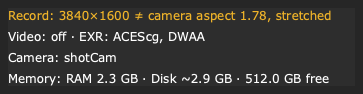
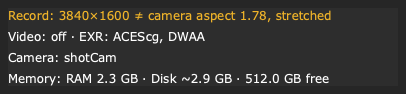
WRITE is the accent (primary) button like Save; the details toggle reads 'Details ▾' instead of a bare arrow

diff --git a/main.py b/main.py
@@ -69,7 +69,7 @@ from .core.viewport import HouViewport
 from .gui import animation, widgets
 from .gui.frameless import RoundedWindow, TitleBar
 from .gui.qt import *  # noqa: F403
-from .gui.theme import COLORS as COLORS_PALLETE, STATES
+from .gui.theme import COLORS as COLORS_PALLETE, PRIMARY_STYLE, STATES
 from .gui.resources import ICONS_FOLDER, Icons as _Icons
 from .gui.settings_dialog import SettingsDialog, execDialog
 
@@ -180,9 +180,10 @@ class DinoWriter(RoundedWindow, QWidget):
         
         self.dino_paint = dino_paint
         # Arrow: the details (record/video/camera/memory) slide out below the name; remembered, closed by default
-        self.info_toggle = widgets.PushButton("", radius=11)
-        self.info_toggle.setFixedSize(QSize(22, 22))
-        self.info_toggle.setIconSize(QSize(12, 12))
+        # A word, not only an arrow: easy to miss otherwise
+        self.info_toggle = widgets.PushButton("Details ▾", radius=6)
+        self.info_toggle.setFixedHeight(22)
+        self.info_toggle.setFixedWidth(self.info_toggle.fontMetrics().horizontalAdvance("Details ▾") + 18)
         self.info_toggle.setCursor(Qt.PointingHandCursor)
         self.info_toggle.clicked.connect(lambda: self.setInfoExpanded(not self.info_expanded))
         sequence_layout = widgets.HLayout([self.seqname,dino_paint,self.info_toggle],align=None)
@@ -316,6 +317,7 @@ class DinoWriter(RoundedWindow, QWidget):
         self.writebutton.setIcon(Icons.get("dino_cam.svg"))
         self.writebutton.setIconSize(QSize(35,35))
         self.writebutton.setLayoutDirection(Qt.RightToLeft)
+        self.writebutton.setStyleSheet(widgets.styles.get("mainbutton") + PRIMARY_STYLE)  # the main action
 
         # LAYOUTS
         TITLE_LAYOUT = QVBoxLayout() 
@@ -450,11 +452,8 @@ class DinoWriter(RoundedWindow, QWidget):
         self._updateInfoToggle()
 
     def _updateInfoToggle(self):
-        icon = Icons.get("angle-down2.svg", type="Path")
-        pixmap = QPixmap(icon).transformed(QTransform().rotate(180 if self.info_expanded else 0),
-                                           Qt.SmoothTransformation)
-        self.info_toggle.setIcon(QIcon(pixmap))
-        style = widgets.styles.get("mainbutton")
+        self.info_toggle.setText("Details ▴" if self.info_expanded else "Details ▾")
+        style = widgets.styles.get("mainbutton") + "QPushButton { padding: 0px 4px; }"
         tooltip = "Hide details" if self.info_expanded else "Show details: record, video, camera, memory"
         if self._warnings and not self.info_expanded:
             color = COLORS_PALLETE["crimson"] if any(c == COLORS_PALLETE["crimson"] for _, c in

diff --git a/gui/settings_dialog.py b/gui/settings_dialog.py
@@ -11,7 +11,7 @@ from . import animation, widgets
 from .frameless import RoundedWindow, TitleBar
 from .qt import *  # noqa: F403
 from .resources import ICONS_FOLDER
-from .theme import COLORS, STATES
+from .theme import COLORS, PRIMARY_STYLE, STATES
 
 EXR_COMPRESSION = (("dwaa", "DWAA (small, for previews)"), ("zip", "ZIP (lossless)"),
                    ("piz", "PIZ (lossless, grainy images)"), ("none", "None"))
@@ -49,12 +49,6 @@ SECTION_TITLE_STYLE = "background: transparent; color: #9a9a9a; letter-spacing: 
 DANGER_STYLE = f"""
 QCheckBox::indicator:checked {{ image: url(icons:square-check-red.svg); }}
 QCheckBox:checked {{ color: {COLORS['crimson']}; }}
-"""
-# Primary action: the accent color; secondary buttons stay neutral
-PRIMARY_STYLE = f"""
-QPushButton {{ background-color: {STATES['selected']}; color: #141414; border: 1px solid #d6a234; font-weight: bold; }}
-QPushButton:hover {{ background-color: #cf9a2a; border: 1px solid #f0c060; }}
-QPushButton:pressed {{ background-color: #94701e; }}
 """
 CHANGED_DOT = f"<span style='color:{STATES['changed']}'>●</span> "
 

diff --git a/gui/theme.py b/gui/theme.py
@@ -27,3 +27,11 @@ STATES = {
 
 WINDOW_RADIUS = 15
 TITLE_BUTTON_SIZE = 20
+
+# Primary action of a window (WRITE, Save): the accent color; secondary buttons stay neutral
+PRIMARY_STYLE = f"""
+QPushButton {{ background-color: {STATES['selected']}; color: #141414; border: 1px solid #d6a234; font-weight: bold; }}
+QPushButton:hover {{ background-color: #cf9a2a; border: 1px solid #f0c060; }}
+QPushButton:pressed {{ background-color: #94701e; }}
+QPushButton:disabled {{ background-color: #3a3a3a; color: #777; border: 1px solid #444; }}
+"""
